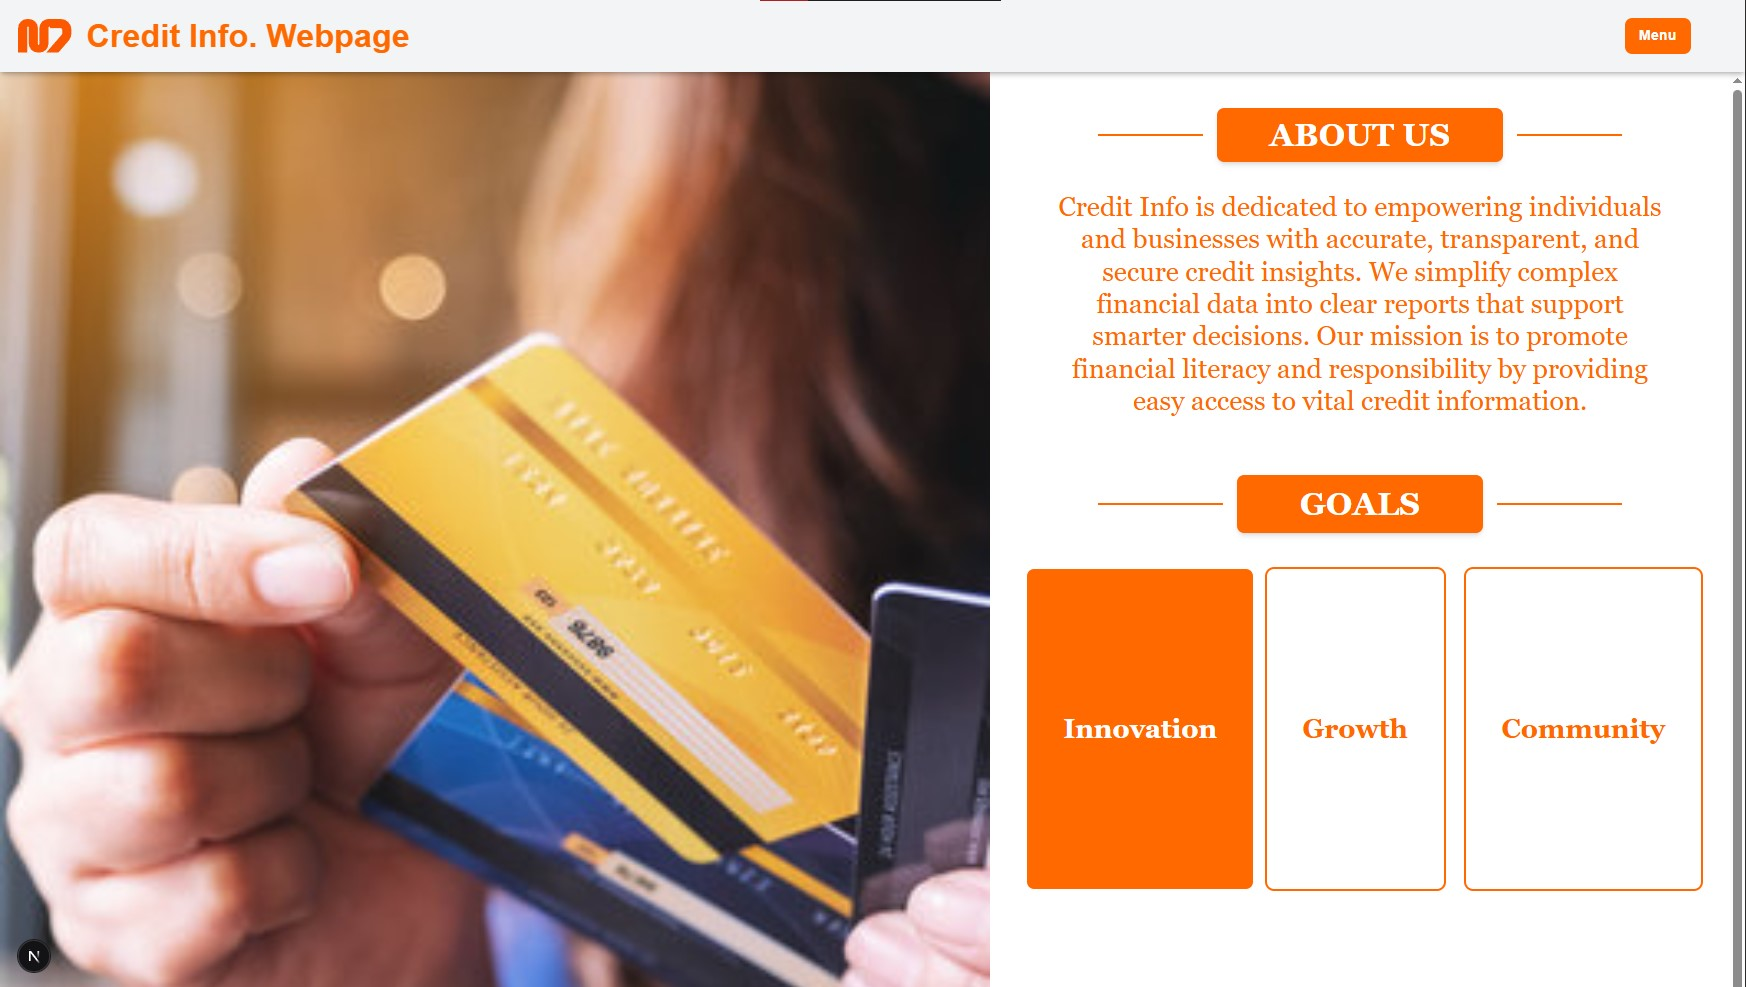
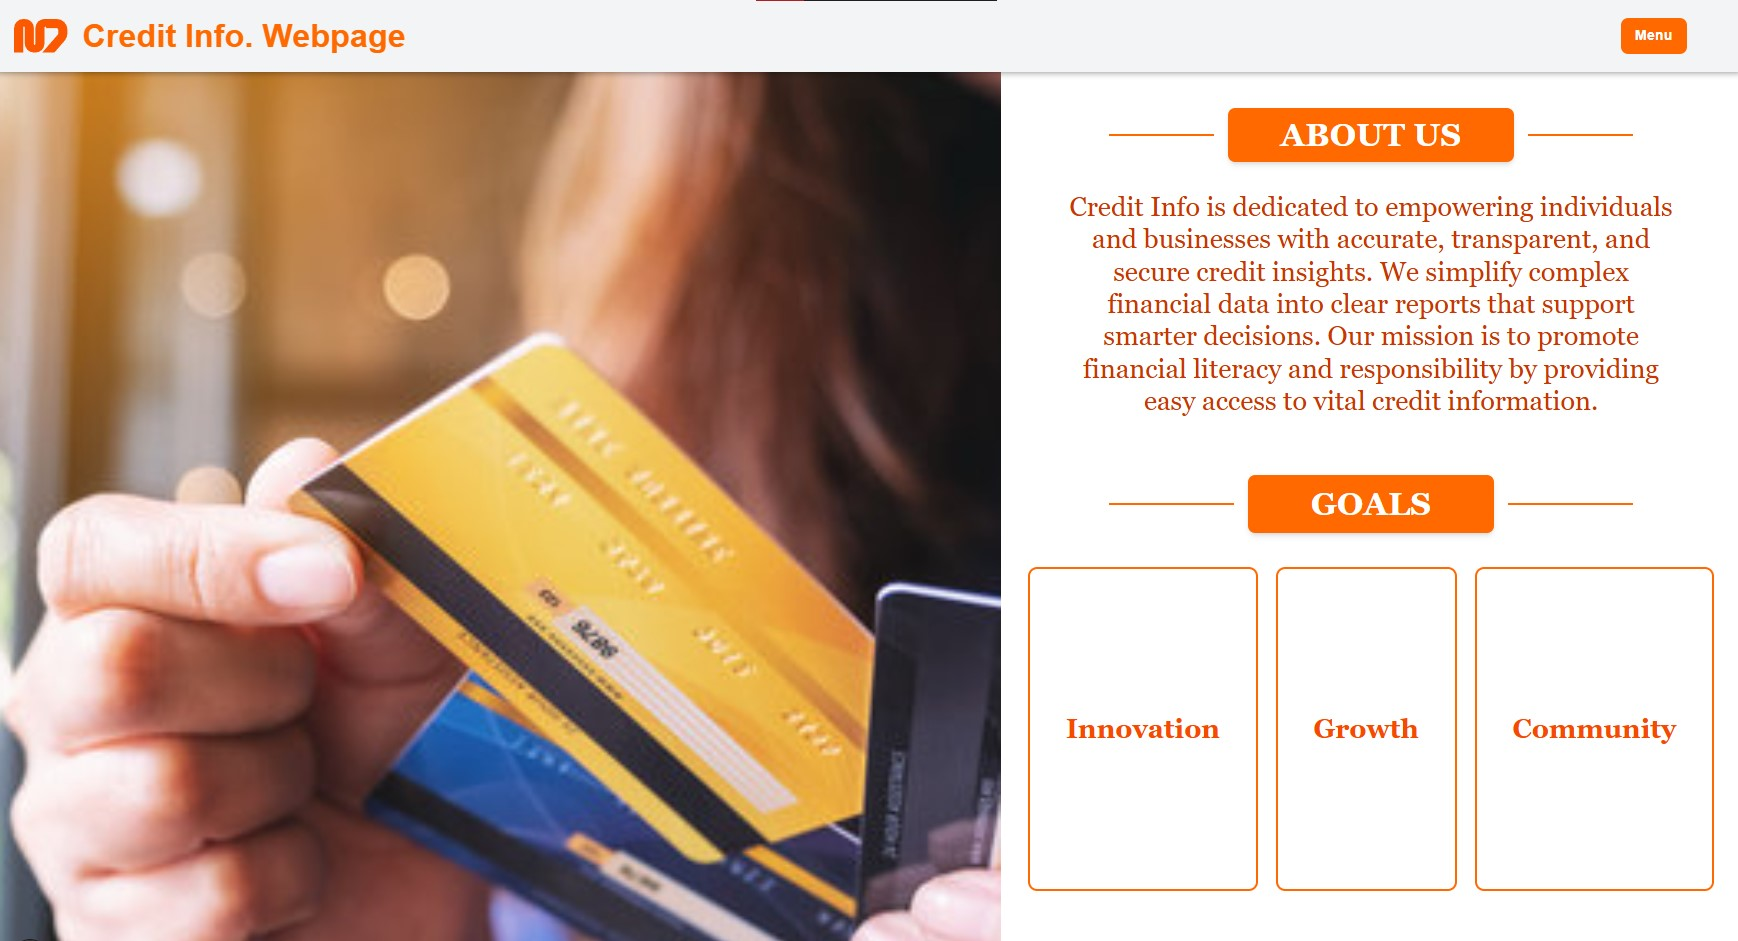
UI Minimal Changes

diff --git a/src/app/page.tsx b/src/app/page.tsx
@@ -39,9 +39,20 @@ export default function Home() {
         </div>
       </div>
 
+{/* 
+        lessons learned: always use flex[x] flex[y] to avoid overflow issues (or zoom in issues ig idk) instead of w[x%] h[y%]
+                        also use flex-1 for the main content to make it scrollable
+                        also use padding instead of w[x%] h[y%] to avoid overflow issues
+                        also  absoulute is fucking disgusting, why tf would i ever use it if it fucks the zoom in and out so much?? (turns out use it for overlapping elements)
+                        also min-h-screen > h-screen (i think, i still don't understand it fully)
+                        also overflow-y-scroll is dogshit 
+                        also flex-grow is sick, i still don't understand it but it works 
+                        */}
+
       {/* Main Scrollable Content */}
-      <main className="flex-1 bg-white overflow-y-scroll ">
+      <main className="flex-1 bg-white  ">
         <div className="flex min-h-screen">
+
           {/* LEFT: Image Section */}
           <div className="flex-[3] h-screen">
             <section className="h-screen w-full">
@@ -50,19 +61,21 @@ export default function Home() {
           </div>
 
           {/* RIGHT: ABOUT US Section */}
-          <div className="flex-[1] min-h-screen flex flex-col items-center relative overflow-visible">
+          <div className="flex-[0.1] min-h-screen flex flex-col items-center relative overflow-visible">
+
+            {/* i dont understand why but flex-grow helped me out here to make the line-ABOUT US-line thing, need to look into it more */}
             {/* Title */}
-            <div className='flex items-center w-full mt-10 px-30 gap-4 my-1'>
+            <div className= 'flex items-center w-full mt-10 px-30 gap-4 my-1'>
               <div className="flex-grow h-[3px] bg-orange-500" />
-              <div className="flex-grow h-[60px] rounded-lg bg-orange-500 flex items-center justify-center shadow-md">
+              <div className="flex-grow h-[60px] rounded-lg  bg-orange-500 flex items-center justify-center shadow-md">
                 <h1 className="text-4xl font-bold text-white font-serif whitespace-nowrap">ABOUT US</h1>
               </div>
               <div className="flex-grow h-[3px] bg-orange-500" />
             </div>
 
             {/* Paragraph */}
-            <div className="mt-1 px-8 py-6 max-w-[90%] rounded-lg text-orange-500 leading-relaxed">
-              <p className="text-3xl text-center font-serif">
+            <div className="mt-1 px-8 py-6 max-w-[90%] rounded-lg text-orange-700   leading-relaxed">
+              <p className=" text-3xl text-center font-serif">
                 Credit Info is dedicated to empowering individuals and businesses with accurate,
                 transparent, and secure credit insights. We simplify complex financial data into
                 clear reports that support smarter decisions. Our mission is to promote financial
@@ -72,64 +85,80 @@ export default function Home() {
 
             <div className="flex w-full items-center mt-10 px-30 gap-4 my-1">
               <div className="flex-grow h-[3px] bg-orange-500" />
-              <div className="flex-grow py-3 rounded-lg bg-orange-500 flex items-center justify-center shadow-md">
+              <div className ="flex-grow  py-3 rounded-lg bg-orange-500 flex items-center justify-center shadow-md">
                 <h1 className="text-4xl font-bold font-serif text-white whitespace-nowrap">GOALS</h1>
               </div>
               <div className="flex-grow h-[3px] bg-orange-500" />
             </div>
 
             <div className="mt-3 px-8 py-6 max-w-[90%] flex justify-center rounded-lg gap-6 text-orange-500 relative leading-relaxed ">
-              {/* Normal button {Innovation} */}
-              <button
-                onMouseEnter={() => setGoal1(true)} onMouseLeave={() => setGoal1(false)}
-                className={`outline outline-3 outline-orange-500 text-orange px-10 py-40 rounded-lg font-bold font-serif text-3xl relative z-10 
-                ${!Goal1 ? 'pr-10 py-10 opacity-100' : 'max-h-0 p-0 opacity-0'} `}
-              >
+
+              {/* im a genius */}
+
+              {/* normal button {Innovation} */}
+              <button onMouseEnter={() => setGoal1(true)} onMouseLeave={()=>setGoal1(false)}
+              className={`outline outline-3 outline-orange-500 text-orange-600 px-10 py-40 rounded-lg font-bold font-serif text-3xl relative z-10 
+              ${!Goal1 ? 'pr-10 py-10 opacity-100' : 'max-h-0 p-0 opacity-0'} `}>
                 Innovation
-              </button>
+              </button>     
 
               {/* Hover animation button {Innovation} */}
-              <button
-                className={`absolute left-0 bg-orange-500 text-white px-10 py-40 overflow-hidden rounded-lg font-bold font-serif text-3xl z-0
-                ${Goal1 ? 'pr-10 py-10 opacity-100' : 'max-h-0 p-0 opacity-0'}`}
-              >
+              <button 
+              className={`absolute left-0 bg-orange-500 text-white px-10 py-40  overflow-hidden rounded-lg font-bold font-serif text-3xl z-0
+              ${Goal1 ? 'pr-10 py-10 opacity-100' : 'max-h-0 p-0 opacity-0'}`}>
                 Innovation
               </button>
 
-              {/* Normal button {Growth} */}
-              <button
-                onMouseEnter={() => setGoal2(true)} onMouseLeave={() => setGoal2(false)}
-                className={`outline outline-3 outline-orange-500 text-orange px-10 py-40 rounded-lg font-bold font-serif text-3xl relative z-10
-                ${!Goal2 ? 'pr-10 py-10 opacity-100' : 'max-h-0 p-0 opacity-0'}`}
-              >
+              {/* normal button {Growth} */}
+              <button onMouseEnter={()=> setGoal2(true)} onMouseLeave={()=>setGoal2(false)}
+              className={`outline outline-3 outline-orange-500 text-orange-600 px-10 py-40 rounded-lg font-bold font-serif text-3xl  relative z-10
+              ${!Goal2 ? 'pr-10 py-10 opacity-100' : 'max-h-0 p-0 opacity-0'}`}> 
                 Growth
-              </button>
+              </button>   
 
               {/* Hover animation button {Growth} */}
-              <button
-                className={`absolute left-68.5 bg-orange-500 text-white px-10 py-40 rleative overflow-hidden rounded-lg font-bold font-serif text-3xl z-0
-                ${Goal2 ? 'pr-10 py-10 opacity-100' : 'max-h-0 p-0 opacity-0'}`}
-              >
+              <button 
+              className={`absolute left-68.5 bg-orange-500 text-white px-10 py-40 rleative  overflow-hidden rounded-lg font-bold font-serif text-3xl z-0
+              ${Goal2 ? 'pr-10 py-10 opacity-100' : 'max-h-0 p-0 opacity-0'}`}>
                 Growth
               </button>
 
-              {/* Normal button {Community} */}
-              <button
-                onMouseEnter={() => setGoal3(true)} onMouseLeave={() => setGoal3(false)}
-                className={`outline outline-3 outline-orange-500 text-orange px-10 py-40 rounded-lg font-bold font-serif text-3xl relative z-10
-                ${!Goal3 ? 'pr-10 py-10 opacity-100' : 'max-h-0 p-0 opacity-0'}`}
-              >
-                Community
-              </button>
+              {/* normal button {Community} */}
+              <button onMouseEnter={()=> setGoal3(true)} onMouseLeave={()=>setGoal3(false)} 
+              className={`outline outline-3 outline-orange-500 text-orange-600 px-10 py-40 rounded-lg font-bold font-serif text-3xl  relative z-10
+              ${!Goal3 ? 'pr-10 py-10 opacity-100' : 'max-h-0 p-0 opacity-0'}`}>
+                Community 
+              </button>    
 
-              {/* Hover animation button {Community} */}
-              <button
-                className={`absolute right-0 bg-orange-500 text-white px-10 py-40 rleative overflow-hidden rounded-lg font-bold font-serif text-3xl z-0
-                ${Goal3 ? 'pr-10 py-10 opacity-100' : 'max-h-0 p-0 opacity-0'}`}
-              >
+              {/* Hover animation button {Community} */}   
+              <button 
+              className={`absolute right-0 bg-orange-500 text-white px-10 py-40 rleative  overflow-hidden rounded-lg font-bold font-serif text-3xl z-0
+              ${Goal3 ? 'pr-10 py-10 opacity-100' : 'max-h-0 p-0 opacity-0'}`}>
                 Community
               </button>
             </div>
+
+            {/* 
+            <div className={`mt-3 px-8 py-6 max-w-[90%] flex justify-center ounded-lg gap-6 text-orange-500 leading-relaxed ${
+              Goal1 ? 'max-h-[200px] pr-20 p-5' : 'max-h-0 p-0'
+            }`} >
+
+              <button
+              className="outline outline-3 outline-orange-500 text-orange px-10 py-40 rounded-lg font-bold font-serif text-3xl">
+                Innovation
+              </button>     
+
+              <button
+              className="outline outline-3 outline-orange-500 text-orange px-10 py-40 rounded-lg font-bold font-serif text-3xl">
+                Growth
+              </button>   
+
+              <button  className="outline outline-3 outline-orange-500 text-orange px-10 py-40 rounded-lg font-bold font-serif text-3xl">
+                Community 
+              </button>     
+            </div>
+            */}
+
           </div>
         </div>
 

diff --git a/README.md b/README.md
@@ -13,7 +13,7 @@ Frontend for the [Credit-info-API](https://github.com/NawafAldhawi/Credit-info-A
 ## Screenshots
 
 ### Homepage
-![Homepage](public/Screenshots/homepage.jpg)
+
 
 ### Register Page
 ![Register Page](public/Screenshots/registerpage.jpg)
